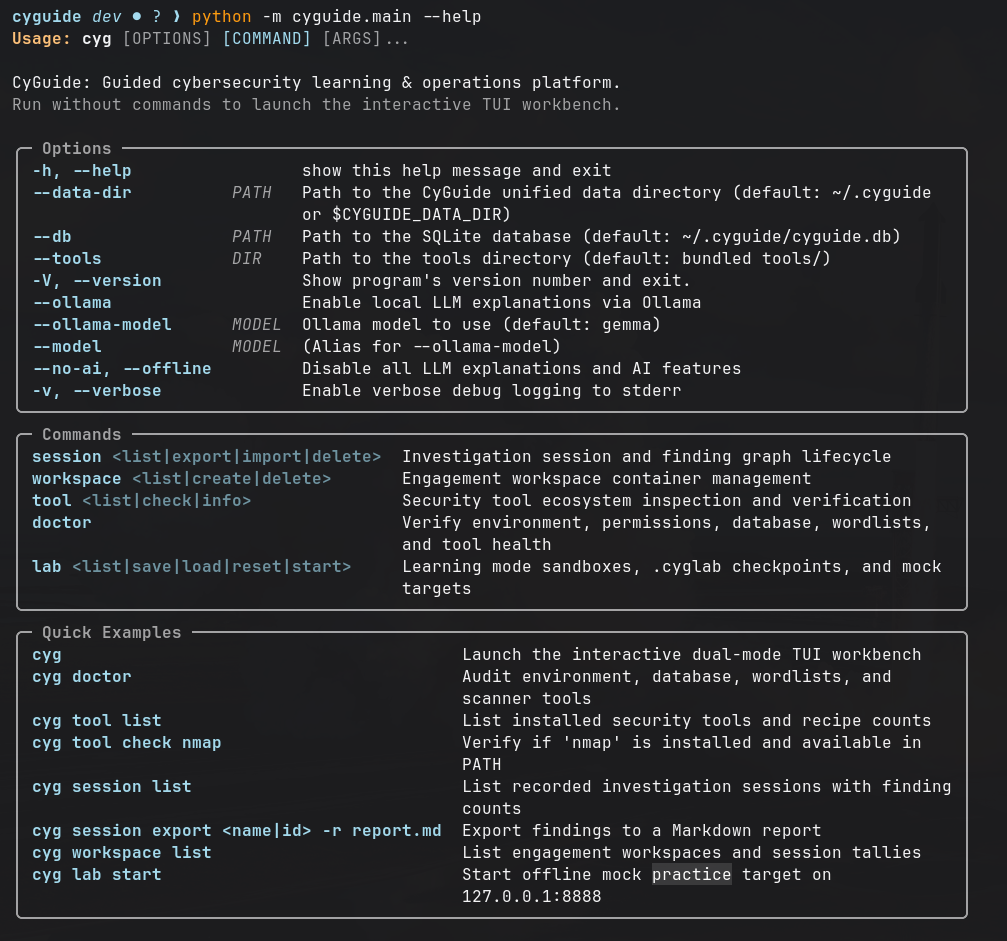
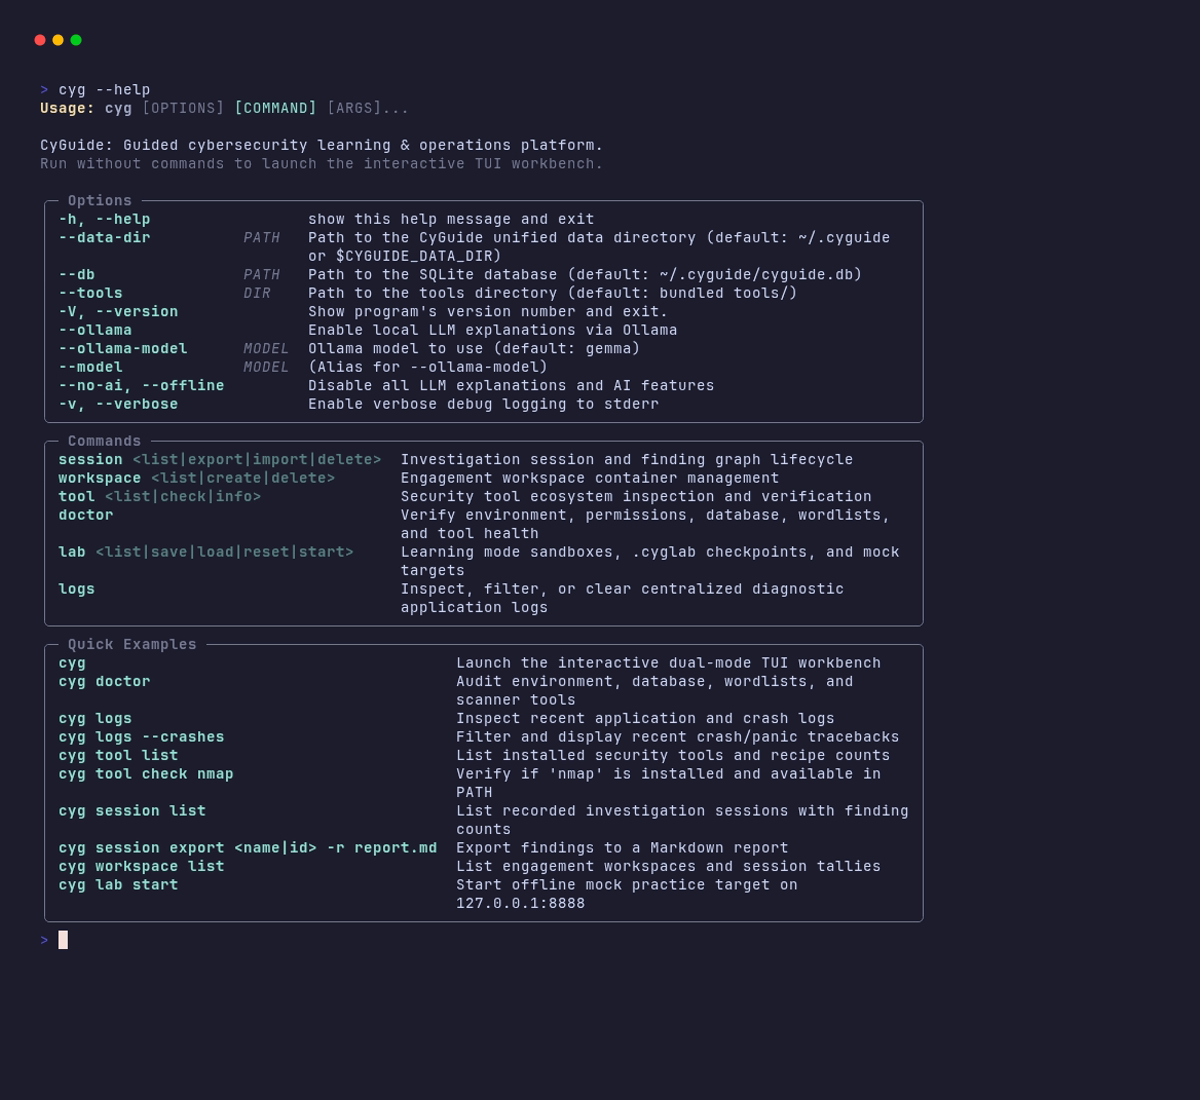
fix(test): isolate learning preflight verification in unit tests and regenerate cli.png with vhs

diff --git a/tests/unit/test_learning_hardening.py b/tests/unit/test_learning_hardening.py
@@ -275,6 +275,16 @@ async def test_learning_ask_ai_and_run_buttons():
             return uuid.uuid4()
 
         app.power_facade.submit_action = mock_submit_action
+
+        from unittest.mock import MagicMock
+
+        from cyguide.engine.preflight import PreflightReport
+
+        screen.session.verify_preflight = MagicMock(
+            return_value=PreflightReport(
+                tool_name="nmap", target="127.0.0.1", flags="", issues=[]
+            )
+        )
         tabs = screen.query_one("#learning_tabs", TabbedContent)
 
         # 1. Sidebar Ask AI button verification
